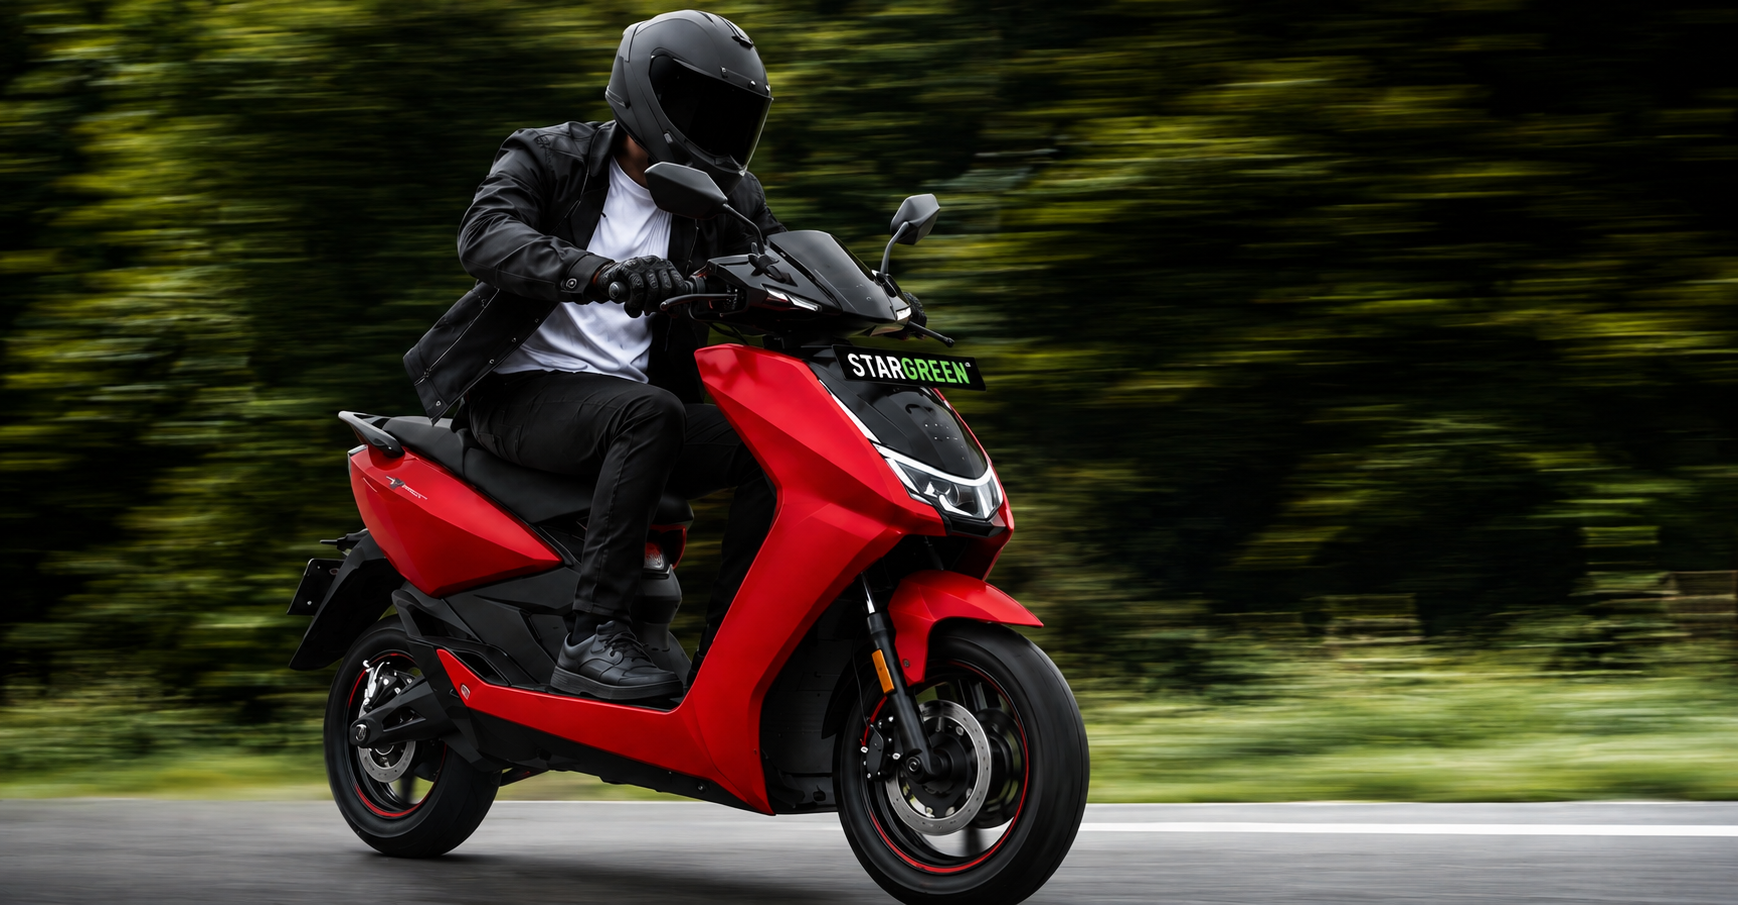
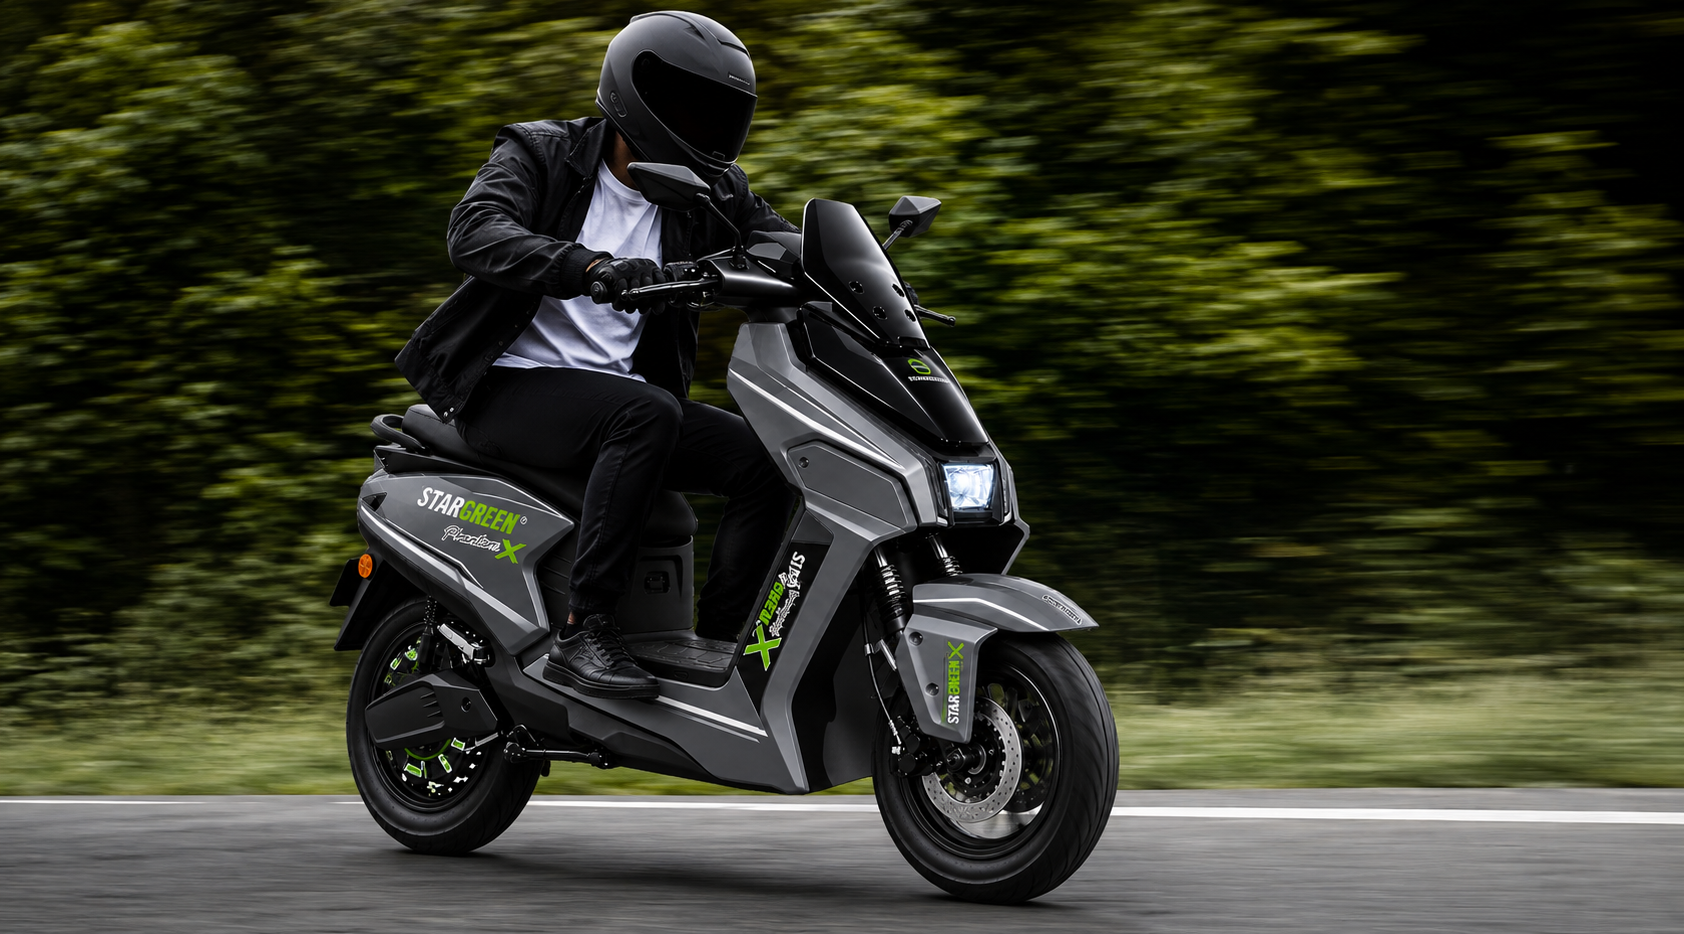
style: update navigation styling, reorganize header menu items, rebrand asset text, and add new assets.

diff --git a/index.html b/index.html
@@ -57,6 +57,21 @@
     <link href="ather-asset/css/style-2.css" rel="stylesheet" type="text/css">
     <link href="ather-asset/css/liquid-cards.css" rel="stylesheet" type="text/css">
     
+    <style>
+        .main-menu ul li a,
+        .main-menu ul li a span,
+        .nav-link,
+        .nav-link span {
+            color: white !important;
+            transition: color 0.3s ease;
+        }
+        .main-menu ul li a:hover,
+        .main-menu ul li a:hover span,
+        .nav-link:hover,
+        .nav-link:hover span {
+            color: #7ed957 !important;
+        }
+    </style>
 </head>
 <!-- Google tag (gtag.js) -->
 <script async src="https://www.googletagmanager.com/gtag/js?id=G-PWKTKTRHB8"></script>
@@ -108,10 +123,10 @@
                                     
                                     
                                     <li class="nav-item"><a href="#overview" class="nav-link"><span>Overview</span></a></li>
+                                    <li class="nav-item"><a href="#convenience" class="nav-link"><span>Comfort & Convenience</span></a></li>
                                     <li class="nav-item"><a href="#performance" class="nav-link"><span>Performance</span></a></li>
                                     <li class="nav-item"><a href="#connect" class="nav-link"><span>Connectivity</span></a></li>
                                     <li class="nav-item"><a href="#safety" class="nav-link"><span>Safety</span></a></li>
-                                    <li class="nav-item"><a href="#convenience" class="nav-link"><span>Comfort & Convenience</span></a></li>
                                     <li class="nav-item"><a href="#sec-pricing" class="nav-link"><span>Pricing</span></a></li>
                                     <li class="nav-item"><a href="locateUs.html" class="nav-link"><span>Locate Us</span></a></li>
                                     <li class="nav-item"><a href="contact.html" class="nav-link"><span>Contact</span></a></li>
@@ -119,10 +134,6 @@
                             </div>
 
                             <div class="btn-area">
-                                <a class="header-btn12 " data-bs-toggle="modal" data-bs-target="#testmodal">Book a Test Ride</a>
-                                
-                                
-                                
                             </div>
                         </div>
                     </nav>
@@ -414,10 +425,10 @@
             
             
             <li class="nav-item"><a href="#overview"  class="nav-link"><span>Overview</span></a></li>
+            <li class="nav-item"><a href="#convenience" class="nav-link"><span>Comfort & Convenience</span></a></li>
             <li class="nav-item"><a href="#performance" class="nav-link"><span>Performance</span></a></li>
             <li class="nav-item"><a href="#connect" class="nav-link"><span>Connectivity</span></a></li>
             <li class="nav-item"><a href="#safety" class="nav-link"><span>Safety</span></a></li>
-            <li class="nav-item"><a href="#convenience" class="nav-link"><span>Comfort & Convenience</span></a></li>
             
             <li class="nav-item"><a href="#sec-pricing" class="nav-link"><span>Pricing</span></a></li>
             <li class="nav-item"><a href="locateUs.html" class="nav-link"><span>Locate Us</span></a></li>
@@ -680,7 +691,7 @@
                 <div class="col-lg-4 col-md-6 mb-4">
                     <div class="liquid-card">
                         <div>
-                            <div class="device-name"><strong>ATHER</strong>STACK<span>6</span></div>
+                            <div class="device-name"><strong>STAR</strong>GREEN<span>PhantomX</span></div>
                             
                             <div class="menu-item">
                                 <div class="icon-circle"><i class="fas fa-bell"></i></div>

diff --git a/locateUs.html b/locateUs.html
@@ -53,6 +53,21 @@
     <script src="../cdnjs.cloudflare.com/ajax/libs/gsap/3.12.5/ScrollTrigger.min.js"></script>
 
     <link href="ather-asset/css/style-2.css" rel="stylesheet" type="text/css">
+    <style>
+        .main-menu ul li a,
+        .main-menu ul li a span,
+        .nav-link,
+        .nav-link span {
+            color: white !important;
+            transition: color 0.3s ease;
+        }
+        .main-menu ul li a:hover,
+        .main-menu ul li a:hover span,
+        .nav-link:hover,
+        .nav-link:hover span {
+            color: #7ed957 !important;
+        }
+    </style>
         <style>
         .Fast-Charging-Grid {
             margin-top: 25px;
@@ -686,10 +701,10 @@
                                     
                                     
                                     <li class="nav-item"><a href="index.html#ather450" class="nav-link"><span>Overview</span></a></li>
+                                    <li class="nav-item"><a href="index.html#convenience" class="nav-link"><span>Comfort & Convenience</span></a></li>
                                     <li class="nav-item"><a href="index.html#performance" class="nav-link"><span>Performance</span></a></li>
                                     <li class="nav-item"><a href="index.html#connect" class="nav-link"><span>Connectivity</span></a></li>
                                     <li class="nav-item"><a href="index.html#safety" class="nav-link"><span>Safety</span></a></li>
-                                    <li class="nav-item"><a href="index.html#convenience" class="nav-link"><span>Comfort & Convenience</span></a></li>
                                     <li class="nav-item"><a href="index.html#sec-pricing" class="nav-link"><span>Pricing</span></a></li>
                                     <li class="nav-item"><a href="locateUs.html" class="nav-link"><span>Locate Us</span></a></li>
                                     <li class="nav-item"><a href="contact.html" class="nav-link"><span>Contact</span></a></li>
@@ -697,10 +712,6 @@
                             </div>
 
                             <div class="btn-area">
-                                <a class="header-btn12 " data-bs-toggle="modal" data-bs-target="#testmodal">Book a Test Ride</a>
-                                
-                                
-                                
                             </div>
                         </div>
                     </nav>
@@ -997,10 +1008,10 @@
             
             
             <li class="nav-item"><a href="index.html#ather450"  class="nav-link"><span>Overview</span></a></li>
+            <li class="nav-item"><a href="index.html#convenience" class="nav-link"><span>Comfort & Convenience</span></a></li>
             <li class="nav-item"><a href="index.html#performance" class="nav-link"><span>Performance</span></a></li>
             <li class="nav-item"><a href="index.html#connect" class="nav-link"><span>Connectivity</span></a></li>
             <li class="nav-item"><a href="index.html#safety" class="nav-link"><span>Safety</span></a></li>
-            <li class="nav-item"><a href="index.html#convenience" class="nav-link"><span>Comfort & Convenience</span></a></li>
             
             <li class="nav-item"><a href="index.html#sec-pricing" class="nav-link"><span>Pricing</span></a></li>
             <li class="nav-item"><a href="locateUs.html" class="nav-link"><span>Locate Us</span></a></li>

diff --git a/contact.html b/contact.html
@@ -54,6 +54,21 @@
     <script src="../cdnjs.cloudflare.com/ajax/libs/gsap/3.12.5/ScrollTrigger.min.js"></script>
 
     <link href="ather-asset/css/style-2.css" rel="stylesheet" type="text/css">
+    <style>
+        .main-menu ul li a,
+        .main-menu ul li a span,
+        .nav-link,
+        .nav-link span {
+            color: white !important;
+            transition: color 0.3s ease;
+        }
+        .main-menu ul li a:hover,
+        .main-menu ul li a:hover span,
+        .nav-link:hover,
+        .nav-link:hover span {
+            color: #7ed957 !important;
+        }
+    </style>
         <style>
         body {
             background-color: #0b0b0b;
@@ -467,10 +482,10 @@
                                     
                                     
                                     <li class="nav-item"><a href="index.html#ather450" class="nav-link"><span>Overview</span></a></li>
+                                    <li class="nav-item"><a href="index.html#convenience" class="nav-link"><span>Comfort & Convenience</span></a></li>
                                     <li class="nav-item"><a href="index.html#performance" class="nav-link"><span>Performance</span></a></li>
                                     <li class="nav-item"><a href="index.html#connect" class="nav-link"><span>Connectivity</span></a></li>
                                     <li class="nav-item"><a href="index.html#safety" class="nav-link"><span>Safety</span></a></li>
-                                    <li class="nav-item"><a href="index.html#convenience" class="nav-link"><span>Comfort & Convenience</span></a></li>
                                     <li class="nav-item"><a href="index.html#sec-pricing" class="nav-link"><span>Pricing</span></a></li>
                                     <li class="nav-item"><a href="locateUs.html" class="nav-link"><span>Locate Us</span></a></li>
                                     <li class="nav-item"><a href="contact.html" class="nav-link"><span>Contact</span></a></li>
@@ -478,10 +493,6 @@
                             </div>
 
                             <div class="btn-area">
-                                <a class="header-btn12 " data-bs-toggle="modal" data-bs-target="#testmodal">Book a Test Ride</a>
-                                
-                                
-                                
                             </div>
                         </div>
                     </nav>
@@ -778,10 +789,10 @@
             
             
             <li class="nav-item"><a href="index.html#ather450"  class="nav-link"><span>Overview</span></a></li>
+            <li class="nav-item"><a href="index.html#convenience" class="nav-link"><span>Comfort & Convenience</span></a></li>
             <li class="nav-item"><a href="index.html#performance" class="nav-link"><span>Performance</span></a></li>
             <li class="nav-item"><a href="index.html#connect" class="nav-link"><span>Connectivity</span></a></li>
             <li class="nav-item"><a href="index.html#safety" class="nav-link"><span>Safety</span></a></li>
-            <li class="nav-item"><a href="index.html#convenience" class="nav-link"><span>Comfort & Convenience</span></a></li>
             
             <li class="nav-item"><a href="index.html#sec-pricing" class="nav-link"><span>Pricing</span></a></li>
             <li class="nav-item"><a href="locateUs.html" class="nav-link"><span>Locate Us</span></a></li>
